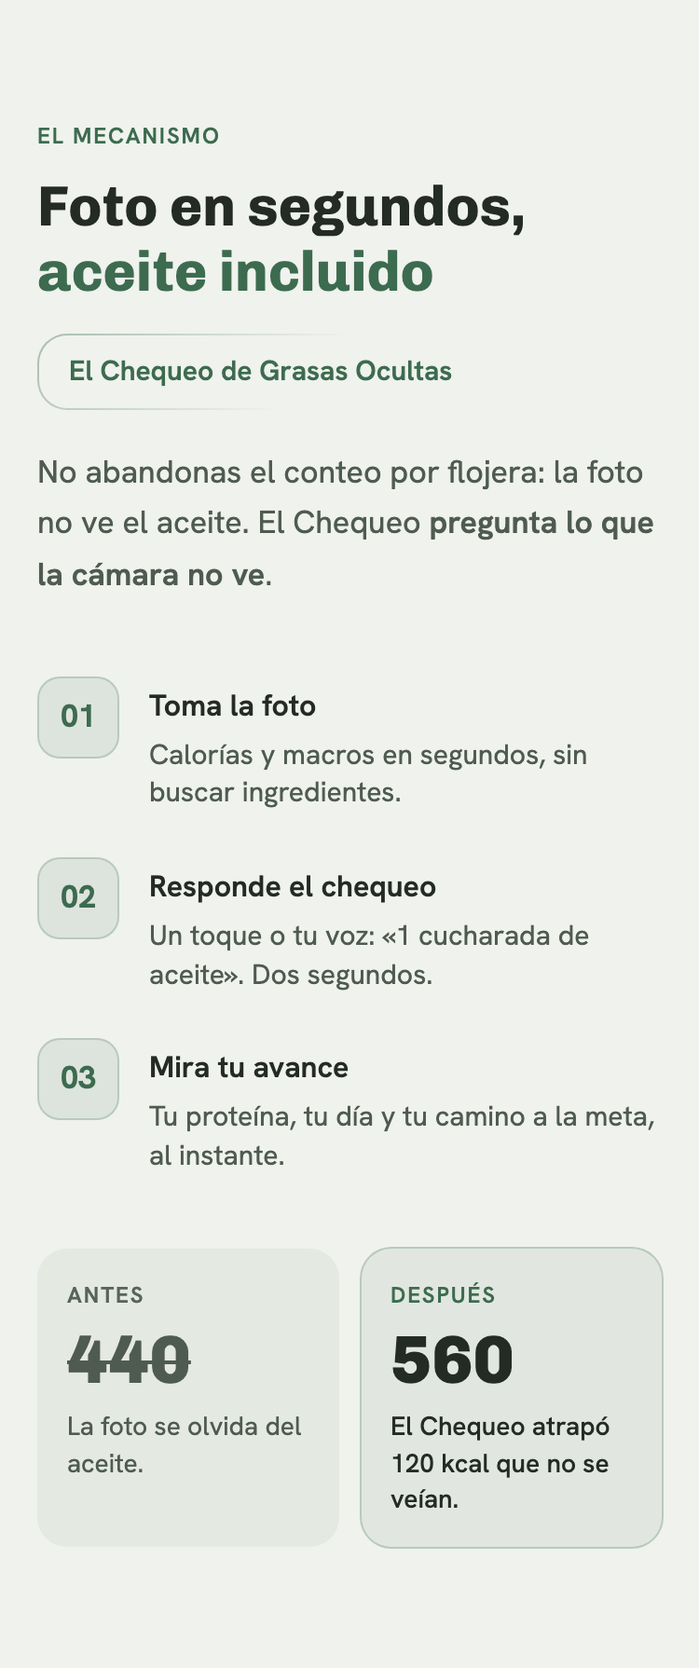
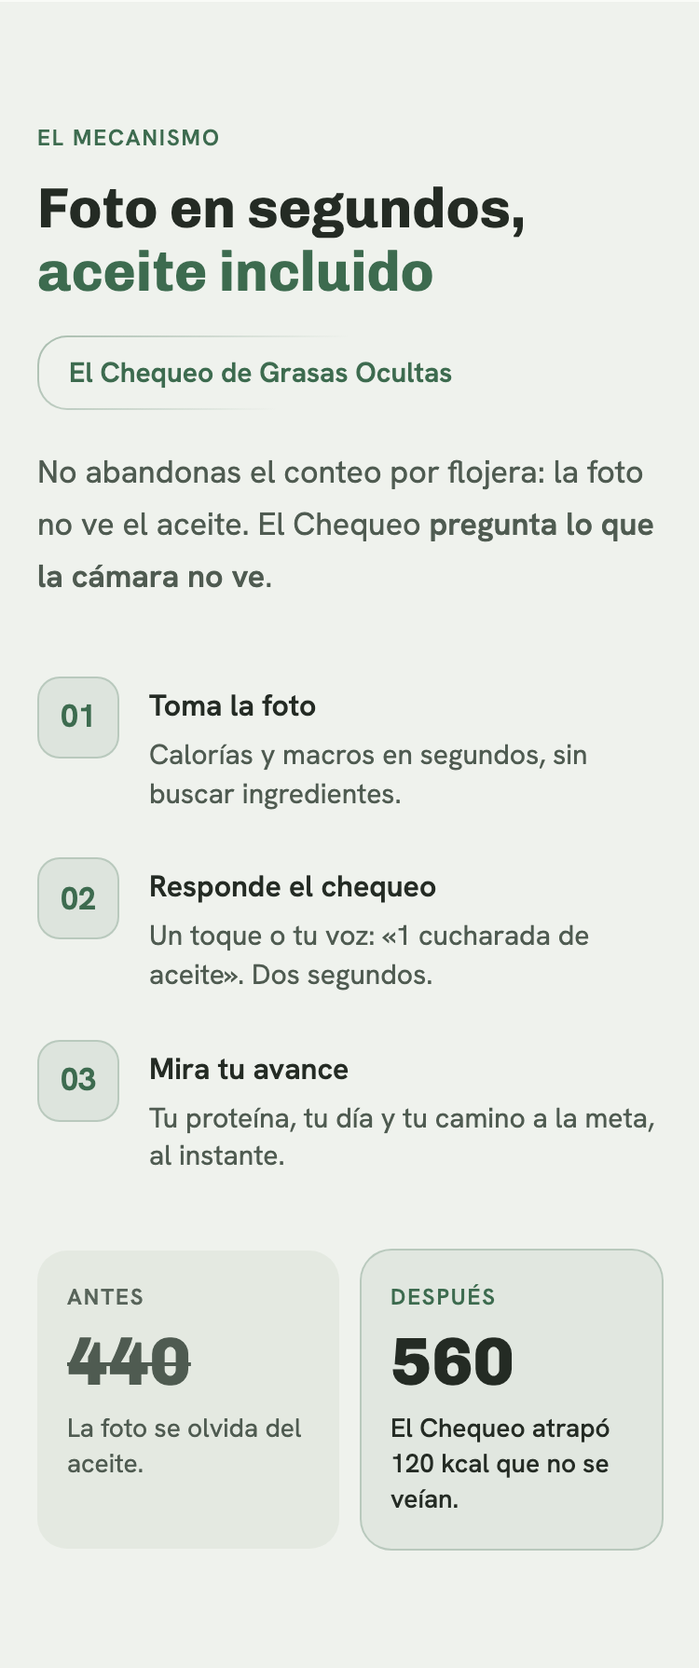
fix: pulido tras 3ª revisión (confianza, costo con contador, footer, garantía en ambos planes, sticky sin duplicados)

diff --git a/components/landing/AgitacionCifras.tsx b/components/landing/AgitacionCifras.tsx
@@ -4,19 +4,26 @@
 // inacción va como CIFRAS en tarjetas con ícono, no como prosa. Mismos tokens y misma
 // mecánica de reveal que el kit. Cálculo trazable: 1 cda de aceite ≈ 120 kcal;
 // 120 × 30 = 3.600 kcal ≈ 0,47 kg de grasa (7.700 kcal/kg).
-import { motion } from 'motion/react';
+import { useEffect, useRef, useState } from 'react';
+import { animate, motion, useInView, useReducedMotion } from 'motion/react';
 import { CalendarDays, Droplet, Scale, type LucideIcon } from 'lucide-react';
-import { IconChip, SectionShell, useReveal, VIEWPORT_ONCE } from './ui';
+import { IconChip, Kicker, SectionShell, useReveal, VIEWPORT_ONCE } from './ui';
 import { MarkedCopy } from './MarkedCopy';
 
 export interface CifraAgitacion {
   icon: LucideIcon;
-  dato: string;
+  /** Valor numérico: cuenta desde 0 al entrar en pantalla. */
+  valor: number;
+  decimales?: number;
+  prefijo?: string;
   unidad?: string;
   etiquetaMarked: string;
 }
 
 export interface AgitacionCifrasProps {
+  kicker?: string;
+  /** Título MARCADO de la sección (solo-titulares). */
+  tituloMarked: string;
   /** 3 cifras: el costo de seguir igual. */
   cifras: CifraAgitacion[];
   /** Frase de cierre corta. */
@@ -27,11 +34,36 @@ export interface AgitacionCifrasProps {
 
 export const ICONOS_AGITACION = { Droplet, CalendarDays, Scale };
 
-export function AgitacionCifras({ cifras, cierreMarked, contraste, id }: AgitacionCifrasProps) {
+function Contador({ valor, decimales = 0, prefijo = '' }: { valor: number; decimales?: number; prefijo?: string }) {
+  const ref = useRef<HTMLSpanElement | null>(null);
+  const visto = useInView(ref, { once: true, amount: 0.6 });
+  const reduce = useReducedMotion();
+  const [v, setV] = useState(reduce ? valor : 0);
+  useEffect(() => {
+    if (reduce) { setV(valor); return; }
+    if (!visto) return;
+    const c = animate(0, valor, { duration: 0.9, ease: [0.16, 1, 0.3, 1], onUpdate: setV });
+    return () => c.stop();
+  }, [visto, valor, reduce]);
+  return (
+    <span ref={ref}>
+      {prefijo}
+      {new Intl.NumberFormat('es-CO', { minimumFractionDigits: decimales, maximumFractionDigits: decimales }).format(v)}
+    </span>
+  );
+}
+
+export function AgitacionCifras({ kicker = 'EL COSTO DE SEGUIR IGUAL', tituloMarked, cifras, cierreMarked, contraste, id }: AgitacionCifrasProps) {
   const { contenedor, item } = useReveal();
   return (
     <SectionShell id={id} elevacion="elevada" flush="top" ariaLabel="El costo de seguir igual">
       <motion.div variants={contenedor} initial="hidden" whileInView="visible" viewport={VIEWPORT_ONCE} className="mx-auto max-w-[620px]">
+        <motion.div variants={item} className="mb-6">
+          <Kicker>{kicker}</Kicker>
+          <h2 className="text-balance text-[30px] font-bold leading-[1.15] text-[var(--text-primary)] [font-family:var(--font-display)] md:text-[40px]">
+            <MarkedCopy text={tituloMarked} />
+          </h2>
+        </motion.div>
         <ul className="flex flex-col gap-3">
           {cifras.map((c, i) => (
             <motion.li
@@ -42,7 +74,7 @@ export function AgitacionCifras({ cifras, cierreMarked, contraste, id }: Agitaci
               <IconChip icon={c.icon} tone="accent" />
               <div>
                 <p className="text-[32px] font-extrabold leading-none tabular-nums text-[var(--text-primary)] [font-family:var(--font-display)]">
-                  {c.dato}
+                  <Contador valor={c.valor} decimales={c.decimales} prefijo={c.prefijo} />
                   {c.unidad && <span className="ml-1 text-[15px] font-semibold text-[var(--text-secondary)]">{c.unidad}</span>}
                 </p>
                 <p className="mt-1 text-[15px] leading-snug text-[var(--text-secondary)]">
@@ -58,12 +90,12 @@ export function AgitacionCifras({ cifras, cierreMarked, contraste, id }: Agitaci
         </motion.p>
 
         <motion.div variants={item} className="mt-6 grid grid-cols-1 gap-3 sm:grid-cols-2">
-          <div className="rounded-[var(--radius-card)] bg-[var(--bg)] p-5">
-            <p className="text-[12px] font-semibold uppercase tracking-[0.08em] text-[var(--text-tertiary)]">{contraste.labelHoy}</p>
+          <div className="rounded-[var(--radius-card)] border-l-4 border-[var(--accent)] bg-[var(--bg)] p-5">
+            <p className="text-[12px] font-semibold uppercase tracking-[0.08em] text-[var(--accent)]">{contraste.labelHoy}</p>
             <p className="mt-2 text-[15px] leading-snug text-[var(--text-primary)]">{contraste.hoy}</p>
           </div>
-          <div className="rounded-[var(--radius-card)] bg-[var(--surface-2)] p-5">
-            <p className="text-[12px] font-semibold uppercase tracking-[0.08em] text-[var(--text-tertiary)]">{contraste.labelFuturo}</p>
+          <div className="rounded-[var(--radius-card)] border-l-4 border-[var(--accent-2)] bg-[var(--surface-2)] p-5">
+            <p className="text-[12px] font-semibold uppercase tracking-[0.08em] text-[var(--accent-2)]">{contraste.labelFuturo}</p>
             <p className="mt-2 text-[15px] leading-snug text-[var(--text-secondary)]">{contraste.futuro}</p>
           </div>
         </motion.div>

diff --git a/app/page.tsx b/app/page.tsx
@@ -4,7 +4,7 @@ import { CreditCard, PenLine, ScanEye, Scale, Timer } from 'lucide-react';
 import { Hero } from '@/components/landing/Hero';
 import { Problema } from '@/components/landing/Problema';
 import { AgitacionCifras } from '@/components/landing/AgitacionCifras';
-import { Droplet, CalendarDays } from 'lucide-react';
+import { Droplet, CalendarDays, ShieldCheck } from 'lucide-react';
 import { CtaFila } from '@/components/landing/CtaFila';
 import { Isotipo } from '@/components/landing/Isotipo';
 import { Solucion } from '@/components/landing/Solucion';
@@ -33,17 +33,20 @@ export default function Page() {
         ctaLabel={CTA_LABEL}
         ctaHref={CTA_HREF}
         socialProof={
-          <span className="mx-auto grid max-w-[340px] grid-cols-3 divide-x divide-[color-mix(in_oklab,var(--text-secondary)_30%,transparent)] text-center text-[12px] leading-tight">
-            <span className="px-2">Garantía de Cero Sorpresas</span>
-            <span className="px-2">Prueba de 3 días</span>
-            <span className="px-2">Reembolso de 7 días</span>
-          </span>
+          <ul className="mx-auto flex w-fit flex-col gap-1 text-left text-[14px]">
+            {['Garantía de Cero Sorpresas', 'Prueba de 3 días, aviso antes de cobrar', 'Reembolso de 7 días, sin preguntas'].map((t) => (
+              <li key={t} className="flex items-center gap-2">
+                <ShieldCheck size={16} strokeWidth={2.2} aria-hidden="true" className="shrink-0 text-[var(--accent)]" />
+                <span>{t}</span>
+              </li>
+            ))}
+          </ul>
         }
         visual={<ChequeoDemo />}
       />
 
       <Problema
-        titulo="¿Te suena?"
+        titulo="Registrar tu comida no debería ser tan lento"
         preguntas={[
           { icon: Timer, textoMarked: '¿Tardas más registrando el plato que [b]comiéndotelo[/b]?' },
           { icon: ScanEye, textoMarked: '¿Tu app dice 440 kcal y [b]no vio el aceite[/b]?' },
@@ -54,10 +57,11 @@ export default function Page() {
       />
 
       <AgitacionCifras
+        tituloMarked="Lo que tu foto [acento]no cuenta[/acento]"
         cifras={[
-          { icon: Droplet, dato: '120', unidad: 'kcal', etiquetaMarked: 'en [b]una cucharada de aceite[/b] que la cámara no ve' },
-          { icon: CalendarDays, dato: '3.600', unidad: 'kcal', etiquetaMarked: 'al mes, si sumas [b]una al día[/b]' },
-          { icon: Scale, dato: '≈ 0,5', unidad: 'kg', etiquetaMarked: 'de grasa que [b]tu déficit no cuenta[/b]' },
+          { icon: Droplet, valor: 120, unidad: 'kcal', etiquetaMarked: 'en [b]una cucharada de aceite[/b] que la cámara no ve' },
+          { icon: CalendarDays, valor: 3600, unidad: 'kcal', etiquetaMarked: 'al mes, si sumas [b]una al día[/b]' },
+          { icon: Scale, valor: 0.5, decimales: 1, prefijo: '≈ ', unidad: 'kg', etiquetaMarked: 'de grasa que [b]tu déficit no cuenta[/b]' },
         ]}
         cierreMarked="Meses de gimnasio con [b]números incompletos[/b]."
         contraste={{
@@ -116,6 +120,7 @@ export default function Page() {
           descomposicionDia: 'menos de US$0.14 al día',
           ctaLabel: CTA_LABEL,
           ctaHref: '/onboarding?plan=anual',
+          notaCta: 'Aviso 1 día antes de cobrar · Reembolso de 7 días',
           features: [
             'Fotos con Chequeo de Grasas Ocultas (hasta 8 al día)',
             'Corrección por voz en 2 segundos',
@@ -128,18 +133,19 @@ export default function Page() {
           precioMes: 'US$7.99',
           ctaLabel: 'Probar con el plan mensual',
           ctaHref: '/onboarding?plan=mensual',
+          notaCta: 'Aviso 1 día antes de cobrar · Reembolso de 7 días',
           features: [
             'Todo lo del plan anual, mes a mes',
             'Cancelas cuando quieras, en 2 toques',
             'El escáner de códigos sigue gratis siempre',
-            'Garantía de Cero Sorpresas: reembolso de 7 días',
+            'Fotos con Chequeo de Grasas Ocultas (hasta 8 al día)',
           ],
         }}
       />
 
       <Garantia
         nombre="La Garantía de Cero Sorpresas"
-        condicionMarked="Te avisamos 1 día antes de cobrar. Si igual no te sirve, un correo y [b]te devolvemos todo[/b]: tienes 7 días de reembolso. Sin preguntas."
+        condicionMarked="Te avisamos 1 día antes de cobrar. Si no te sirve, un correo y [b]te devolvemos todo[/b]. 7 días, sin preguntas."
         pisoLegal="El reembolso se tramita a través de Hotmart"
       />
 

diff --git a/components/landing/ui.tsx b/components/landing/ui.tsx
@@ -194,6 +194,7 @@ export function StickyCtaMobile({
   const [ofertaVisible, setOfertaVisible] = useState(false);
   const [ofertaVista, setOfertaVista] = useState(false);
   const [finalVisible, setFinalVisible] = useState(false);
+  const [inlineVisibles, setInlineVisibles] = useState(0);
 
   useEffect(() => {
     const observar = (id: string, onChange: (visible: boolean) => void): IntersectionObserver | null => {
@@ -215,14 +216,25 @@ export function StickyCtaMobile({
       if (v) setOfertaVista(true);
     });
     const c = observar(ctaFinalId, setFinalVisible);
+    // CTAs inline (data-cta-inline): mientras uno está en pantalla, el sticky se oculta (sin botones duplicados)
+    const vis = new Set<Element>();
+    const ioInline = new IntersectionObserver(
+      (entries) => {
+        for (const e of entries) (e.isIntersecting ? vis.add(e.target) : vis.delete(e.target));
+        setInlineVisibles(vis.size);
+      },
+      { threshold: 0.3 }
+    );
+    document.querySelectorAll('[data-cta-inline]').forEach((el) => ioInline.observe(el));
     return () => {
       a?.disconnect();
       b?.disconnect();
       c?.disconnect();
+      ioInline.disconnect();
     };
   }, [heroId, ofertaId, ctaFinalId]);
 
-  const visible = !heroVisible && !ofertaVisible && !finalVisible;
+  const visible = !heroVisible && !ofertaVisible && !finalVisible && inlineVisibles === 0;
 
   return (
     <AnimatePresence>

diff --git a/components/landing/Oferta.tsx b/components/landing/Oferta.tsx
@@ -22,6 +22,8 @@ export interface PlanOferta {
   descomposicionDia?: string;
   ctaLabel: string;
   ctaHref: string;
+  /** Línea bajo el CTA (p. ej. garantía y aviso de cobro). */
+  notaCta?: string;
   /** 4-6 features en lenguaje de RESULTADO, máx 12 palabras c/u. */
   features: string[];
 }
@@ -174,6 +176,7 @@ export function Oferta({
                   <CtaButton href={anual.ctaHref} fullMobile>
                     {anual.ctaLabel}
                   </CtaButton>
+                  {anual.notaCta && <p className="mt-3 text-center text-[13px] text-[var(--text-secondary)]">{anual.notaCta}</p>}
                 </div>
               </div>
             </Hairline>
@@ -199,6 +202,7 @@ export function Oferta({
             >
               {mensual.ctaLabel}
             </motion.a>
+            {mensual.notaCta && <p className="mt-3 text-center text-[13px] text-[var(--text-secondary)]">{mensual.notaCta}</p>}
           </motion.div>
         </div>
       </motion.div>

diff --git a/components/landing/FooterLegal.tsx b/components/landing/FooterLegal.tsx
@@ -37,14 +37,14 @@ export function FooterLegal({ appName, logo, enlaces, soporteEmail, anio }: Foot
             {appName}
           </p>
           <nav aria-label="Enlaces legales">
-            <ul className="flex flex-wrap items-center gap-x-3 gap-y-0">
+            <ul className="flex flex-wrap items-center gap-x-5 gap-y-0">
               {enlaces.map((e, i) => (
                 <li key={e.href} className="flex items-center">
 
                   {/* py-3 = área táctil ≥44px sin líneas pegadas */}
                   <a
                     href={e.href}
-                    className="whitespace-nowrap px-1 py-3 text-[13px] text-[var(--text-tertiary)] underline-offset-4 hover:text-[var(--text-secondary)] hover:underline"
+                    className="whitespace-nowrap py-3 text-[13px] text-[var(--text-tertiary)] underline-offset-4 hover:text-[var(--text-secondary)] hover:underline"
                   >
                     {e.label}
                   </a>

diff --git a/components/landing/AppPorDentro.tsx b/components/landing/AppPorDentro.tsx
@@ -140,7 +140,7 @@ export function AppPorDentro({
                 onClick={() => irA(i)}
                 aria-label={`Ir a: ${f.label}`}
                 aria-current={activo === i ? 'true' : undefined}
-                className="flex size-6 items-center justify-center [touch-action:manipulation]"
+                className="flex size-11 items-center justify-center [touch-action:manipulation]"
               >
                 <span
                   className={`size-2 rounded-full transition-colors duration-200 ${
@@ -155,7 +155,7 @@ export function AppPorDentro({
         </motion.div>
 
         {/* CTA mid-page (reglas de CTA de 19): tras la prueba visual, cuando la confianza es alta */}
-        <motion.div variants={item} className="mt-10 flex justify-center">
+        <motion.div variants={item} data-cta-inline className="mt-10 flex justify-center">
           <CtaButton href={ctaHref}>{ctaLabel}</CtaButton>
         </motion.div>
       </motion.div>

diff --git a/components/landing/CtaFila.tsx b/components/landing/CtaFila.tsx
@@ -6,7 +6,7 @@ import { CtaButton } from './ui';
 
 export function CtaFila({ label, href, nota }: { label: string; href: string; nota?: string }) {
   return (
-    <div className="bg-[var(--bg)] px-5 py-8">
+    <div data-cta-inline className="bg-[var(--bg)] px-5 py-8">
       <div className="mx-auto flex max-w-[420px] flex-col items-center gap-2 text-center">
         <CtaButton href={href}>{label}</CtaButton>
         {nota && <p className="text-[13px] text-[var(--text-secondary)]">{nota}</p>}

diff --git a/docs/revisiones/landing-veredicto.md b/docs/revisiones/landing-veredicto.md
@@ -1,24 +1,44 @@
-# VEREDICTO revisor-visual — landing (segunda revisión)
-Fecha: 2026-11-04 12:00
+# VEREDICTO revisor-visual — landing (tercera revisión)
+Fecha: 2026-11-07 12:00
 Screenshot: docs/revisiones/landing-375.png
-Usabilidad: 28/40
-Craft: 13/20
-Copy (si vende): 15/20
+Usabilidad: 30/40
+Craft: 14/20
+Copy (si vende): 16/20
 Fidelidad (si hubo referencia): N-A
 Veredicto: NO LISTA
 Top defectos:
-1. [Oferta, card Anual, botón] "Probar mi primera foto gratis" se parte en 2 líneas con el texto pegado a la izquierda dentro de un botón de ancho completo (px-8 + card con padding): es el CTA héroe de la página y se ve roto; el mismo CTA en hero/carrusel/final va en 1 línea centrada. Fix: reducir px del CtaButton dentro de cards (px-4) / text-center / text-[16px] para que quepa en 1 línea.
-2. [Honestidad, Oferta + Garantía + FAQ + CTA final] La app no existe, pero solo el kicker del carrusel lo dice; la oferta, la prueba de 3 días, los features ("hasta 8 al día", "reporte semanal", "racha de 48 h") y la FAQ hablan en presente como producto vivo y el CTA lleva a /onboarding. Fix: si se vende ya, aviso visible junto a la oferta ("acceso anticipado / lanzamiento en X") o cambiar el CTA a lista de espera; si no, no cobrar por lo que no está.
-3. [Hero, fila de confianza bajo el CTA; Footer; CtaFinal recap] Desencajes visibles de última milla: la fila "Garantía de Cero Sorpresas / Prueba de 3 días / Reembolso de 7 días" cae en 2 líneas desbalanceadas sin separadores; en el pie el "·" queda colgado al final de la línea 1 y "Aviso de IA" cae sangrado a la línea 2; el recap del CTA final deja "días" huérfano. Fix: grid 3 columnas o chips con separador en el hero; en el pie, lista con flex-wrap sin "·" textuales (usar gap + divisores por ::before); recap en 2 líneas controladas (text-balance).
-4. [Agitación + Solución "Antes/Después" + hero + carrusel frame 1] El par 440→560 aparece 4 veces (hero demo, Antes/Después, frame 1 del carrusel, CTA final) y Agitación es texto puro en 3 párrafos + 2 cajas grises sin ícono, número héroe ni visual (regla "ninguna sección de conversión es solo texto"); además las 5 tarjetas de "¿Te suena?" parecen tocables y no hacen nada. Fix: eliminar el bloque Antes/Después (ya lo hace el demo del hero) y convertir Agitación en un dato héroe visual (120 kcal × 30 = 3.600 con barra/rejilla); quitar la apariencia de botón a las tarjetas de Problema (sin sombra/borde elevado).
-5. [Oferta, 2 cards] 12 bullets (2 listas idénticas de 6, una de ellas repite la garantía que ya tiene su sección) en la zona donde el usuario decide: carga cognitiva alta y el Mensual queda tan largo como el Anual. Fix: lista de 4 ítems en el Anual y en el Mensual solo "Todo lo del Anual, mes a mes"; quitar el bullet de garantía (va en su sección y en el hero).
-Otros (menores): logo = cuadrado verde liso sin glifo en header y pie (identidad blanda, parece placeholder); el frame del carrusel deja ~25% de vacío muerto dentro del teléfono antes del botón; carrusel muestra "Foto en 3 s" (claim de velocidad no probado); sin ninguna prueba social externa (testimonio/cifra real) -> especificidad solo apoyada en el demo ilustrativo y la garantía; el verde claro del CTA final (#9FD1AE aprox.) es un color fuera de la paleta de FICHA-ARTE (aceptable por contraste, documentarlo en la ficha).
+1. [Hero, fila de confianza bajo el CTA] Sigue cayendo en 2 líneas desbalanceadas: "Garantía de Cero / Sorpresas", "Reembolso de 7 / días" (huérfano "días"). Se ve a simple vista en el primer pantallazo, justo bajo el CTA héroe. Fix: textos cortos de 1 línea ("Cero Sorpresas · 3 días gratis · 7 días de reembolso") o chips con ícono; text-balance y whitespace-nowrap por columna.
+2. [Sección "costo de seguir igual", justo tras "¿Te suena?"] Las 3 tarjetas de cifras (120 / 3.600 / ≈0,5) y el bloque Hoy/En 6 meses NO tienen título ni kicker: el lector pasa de 5 tarjetas grises de preguntas a 5 tarjetas grises más sin ningún encabezado que enmarque "el costo". Falla la prueba solo-titulares y se crea un muro de 10 cajas gris-verdoso casi idénticas sin respiro. Fix: agregar kicker + h2 ("Lo que no cuenta, cuenta") y dar al par Hoy/6 meses un tratamiento distinto (sin caja o con acento naranja de la ficha); además hacer que 120 y 3.600 cuenten de 0 al entrar (conteo héroe).
+3. [Footer] "Aviso de IA" cae solo en una 2ª línea, sangrado 8px respecto al logo y al © (los enlaces llevan padding, el resto no); sin ningún canal de contacto/soporte. Fix: lista flex-wrap 2x2 con -ml-2 o sin padding lateral, alineada a x=40; añadir correo de soporte.
+4. [Oferta, cards Anual/Mensual] La garantía de 7 días aparece como bullet solo en el Mensual: el Anual (el que se promueve y el de mayor desembolso, US$49.99) parece NO tenerla, contradiciendo hero/FAQ/Garantía. Fix: quitar el bullet del Mensual y poner bajo el CTA del Anual una línea "Reembolso de 7 días · aviso 1 día antes de cobrar" en ambos planes.
+5. [Cierre y consistencia con FICHA-ARTE] CTA final con verde menta (~#9FD1AE) y fondo oscuro: ambos fuera del brand kit aprobado (modo claro, acento #3D6B4F); no están documentados en la ficha. Además el sticky CTA coexiste con los CtaFila/carrusel (dos botones idénticos apilados en pantalla en secciones 5, 6 y 9). Fix: documentar el verde menta y el bloque oscuro en FICHA-ARTE como excepción de cierre (o tokenizarlo), y ocultar el sticky mientras haya un CtaFila/CTA inline visible.
+Otros (menores): 440→560 aparece 5 veces (hero demo, pregunta 2 de "¿Te suena?", Antes/Después, frame 1 del carrusel, cierre) y dilata la especificidad; dots del carrusel con área de 24px (<44px) y marco del frame 1 con ~12% de vacío antes del botón; el aviso de 2 líneas en mayúsculas del carrusel es largo; las FAQ afirman funciones ("fotos no se guardan, solo miniatura", "hasta 8 al día", "48 h para recuperar racha") de una app que aún no existe, atenuado por el aviso de Acceso anticipado; sin prueba social real (omitida a propósito, el techo de especificidad queda en 3); labels de 11-12px en el demo (Solo la foto / Con el Chequeo) en el límite; rejilla+ticks aparece una sola vez en toda la página.
 
 Detalle de puntaje
-Usabilidad: h1:3 h2:3 h3:3 h4:2 h5:3 h6:3 h7:3 h8:2 h9:3 h10:3
-Craft: jerarquía:3 profundidad:3 identidad:2 movimiento:3 encaje:2
-Copy: idea:3 especificidad:3 emoción:3 oferta:3 acción:3
-Gate de carga cognitiva: 1 falla (listas de 6 ítems por card); 5 tarjetas en Problema en el límite. No es sobrecarga crítica.
-Verificado en código: reveal escalonado whileInView una sola vez con useReducedMotion (ui.tsx useReveal), whileTap 0.97 en CTAs, conteo animado 440->560 en ChequeoDemo (al montar y al tocar), @media prefers-reduced-motion en tokens.css, sticky CTA con 2 estados y safe-area, FAQ y dots del carrusel tocables, todas las rutas enlazadas existen (/onboarding, /entrar, /privacidad, /terminos, /reembolsos, /aviso-ia). No hay anillos/barras que se dibujen ni celebración en la landing (n/a salvo imágenes estáticas).
-Consistencia con FICHA-ARTE: paleta (#EFF2ED/#F9FBF7/#3D6B4F), Chivo + Hanken, radios 14-16 y dispositivo rejilla+ticks coinciden; sin desvío evidente. No coincide con los clones vetados (Capítulo/Umbral). Cumple conversión: titular con énfasis en acento, hairline degradé en card clave, chips SVG sin emojis, secciones alternadas.
-Umbral: LISTA exige >=36/40 y >=16/20 craft y copy >=16/20 sin eje <=2: no se cumple (28, 13, 15).
+Usabilidad: h1:3 h2:3 h3:3 h4:3 h5:3 h6:3 h7:3 h8:3 h9:3 h10:3
+(h9 = sin estados de error en una landing; se puntúa neutro, no 4. h3/h7 verificados en código: sticky CTA con 2 estados, FAQ cierra/abre con aria-expanded y teclado nativo, dots tocables, botones nativos; sin atajos ni ancla de navegación superior, por eso no 4.)
+Craft: jerarquía:3 profundidad:3 identidad:3 movimiento:3 encaje:2
+Copy: idea:4 especificidad:3 emoción:3 oferta:3 acción:3
+Gate de carga cognitiva: 0-1 fallas (5 tarjetas en "¿Te suena?" en el límite; 440/560 repetido). Sin sobrecarga crítica. Una acción primaria repetida con el mismo label; sin elementos tapables falsos (las tarjetas del problema ya no parecen botones).
+Verificado en código: reveal escalonado whileInView una sola vez + useReducedMotion (ui.tsx useReveal), whileTap 0.97 en CtaButton/sticky/Oferta, conteo 440→560 en ChequeoDemo (al montar y al tocar, con aria-live), acordeón con altura animada y reduced-motion, @media prefers-reduced-motion en tokens.css, rutas /onboarding /entrar /privacidad /terminos /reembolsos /aviso-ia existen. Faltan: conteo en las cifras 120/3.600, anillos/barras dibujados (solo imágenes estáticas en el carrusel); celebración N/A en landing.
+Consistencia con FICHA-ARTE: paleta #EFF2ED/#F9FBF7/#3D6B4F, Chivo + Hanken, radios 14-16, rejilla+ticks e isotipo coinciden. Desvíos: bloque oscuro de cierre y CTA verde menta no están en la ficha (modo claro). No coincide con los clones vetados (Capítulo = papel cálido + Petrona/Karla; Umbral = pizarra + latón): fondo salvia fría + Chivo/Hanken. Conversión: titular con énfasis en acento, hairline degradé en demo/oferta/garantía, chips SVG sin emojis, secciones alternadas, checkmarks custom: cumple.
+Copy: traza a ficha — hero (dolor 2 + deseo 2, objeción 1), cobros sorpresa (dolor 4, objeción 2) en Problema/Garantía/FAQ, mecanismo "Chequeo de Grasas Ocultas" bautizado en hero, solución, oferta y FAQ. Garantía con nombre y plazo (7 días) inmediatamente tras la oferta y repetida en CtaFila. Message-match: N/A (sin anuncio de origen). Cero claims de ingresos/salud; "≈0,5 kg" trazable (120×30/7.700). Techo en especificidad/emoción por falta de prueba real y de la escena del restaurante.
+Umbral: LISTA exige >=36/40 usabilidad, >=16/20 craft y >=16/20 copy sin eje <=2. Copy cumple (16); usabilidad 30 y craft 14 no.
+
+## Auditoría de escaneabilidad mobile (375px)
+| # | Sección | ¿Bloque >4 líneas seguidas? | ¿Ícono/número en dolores/beneficios/pasos? | ¿Pasa solo-titulares? | ¿Respiro visual? | Caja/acordeón | Qué corregir |
+|---|---|---|---|---|---|---|---|
+| 1 | Hero | ✅ máx 3 líneas (H1) | ✅ demo con ícono de gota | ✅ H1 + CTA cuentan la historia | ✅ | n/a | Fila de confianza en 2 líneas con "días" huérfano: acortar a 1 línea por columna |
+| 2 | ¿Te suena? | ✅ 2 líneas por tarjeta | ✅ 5 chips de ícono | ❌ título genérico ("¿Te suena?"); el mensaje está en el cuerpo de las tarjetas | ✅ gap 16px, 5 ítems (límite) | ✅ tarjetas sin apariencia de botón | Título con promesa ("5 señales de que tu conteo está incompleto") |
+| 3 | El costo de seguir igual | ✅ máx 2 líneas | ✅ ícono + cifra héroe 32px | ❌ no tiene título: sin encabezado el bloque no se lee en solo-titulares | ❌ continúa el muro de cajas grises de la sección 2 sin pausa | ✅ cajas | Añadir kicker+h2; diferenciar Hoy/6 meses del resto; contar las cifras al entrar |
+| 4 | Cómo funciona | ✅ intro 3 líneas, pasos 2 | ✅ pasos 01-02-03 | ✅ "Foto en segundos, aceite incluido" + 3 títulos de paso | ✅ | ✅ Antes/Después en 2 columnas (440/560 se leen bien) | Quitar repetición del 440→560 (ya está en el hero) o variar el ejemplo |
+| 5 | CTA tras el mecanismo | ✅ | n/a | ✅ | ✅ | n/a | Ocultar el sticky cuando este botón es visible (botón duplicado) |
+| 6 | La app por dentro | ✅ | ✅ cada frame con etiqueta; 5 dots | ✅ | ✅ | ✅ marcos de teléfono | Dots a 44px; recortar vacío de 12% en frame 1; acortar kicker de 2 líneas |
+| 7 | Planes y precios | ✅ bullets de 1-2 líneas | ✅ checkmarks custom | ✅ "Empieza gratis. Sigue por US$4.17 al mes" | ✅ | ✅ 2 cajas, anual destacada con badge | Garantía solo en el bullet del Mensual: ponerla en ambos |
+| 8 | Garantía | ✅ 4 líneas justas (centradas, en el límite) | ✅ escudo | ✅ "La Garantía de Cero Sorpresas" | ✅ | ✅ caja con hairline | Alinear a la izquierda o recortar a 3 líneas |
+| 9 | CTA tras la garantía | ✅ | n/a | ✅ | ✅ | n/a | Mismo punto que 5 (sticky duplicado) |
+| 10 | Preguntas frecuentes | ✅ respuestas de 4 líneas | ✅ chevrons | ✅ 6 preguntas se leen solas | ✅ | ✅ acordeón (1 abierto) | Abrir/cerrar OK; sin cambios |
+| 11 | Empieza hoy (cierre) | ✅ 3 líneas | n/a | ✅ | ✅ | n/a | Documentar el bloque oscuro y el verde menta en la ficha |
+| 12 | Footer | ✅ | ✅ isotipo | n/a | ❌ enlace huérfano "Aviso de IA" sangrado | n/a | Alinear a x=40 y balancear; añadir contacto |
+
+Resumen: 12 secciones, 9 completamente ✅; ❌ en 3 (título faltante + muro de cajas), 2 (título genérico en solo-titulares), 12 (footer) y la fila de confianza del hero.

diff --git a/ESTADO.md b/ESTADO.md
@@ -121,7 +121,7 @@ Registro de calorías y macros por FOTO con IA + corrección por VOZ + escáner 
 - Sesión 2: identidad visual y tour de la app. Sesión 3: página de ventas. Sesiones 4-8 según el plan maestro.
 
 ## Problemas conocidos ⚠
-- veredicto landing: el revisor visual independiente dio NO LISTA dos veces (1ª: usab 28/40 · craft 12/20 · copy 14/20; 2ª: 28/40 · 13/20 · 15/20; gates 36/16/16). Ya corregido: contraste del CTA final, total anual, garantía nombrada, claims, CTA único, demo tocable, FAQ, pie, bullets de oferta. PENDIENTE: dato visual en Agitación, quitar Antes/Después repetido, logo/isotipo real, aviso de 'acceso anticipado' en la oferta (la app aún no existe), prueba social real. Decisión del usuario pendiente (ver pregunta). La landing se vuelve a puntuar con screenshots reales al cerrar la app (19 §5).
+- veredicto landing: 3ª revisión independiente (2026-11-07) NO LISTA: usab 30/40 · craft 14/20 · copy 16/20 (gates 36/16/16; copy ya pasa). Evolución: 28/12/14 → 28/13/15 → 30/14/16. Tras la 3ª se corrigió: fila de confianza, título+contador en 'costo', footer, garantía bajo ambos CTAs, sticky sin duplicados, dots 44px, excepción del bloque oscuro documentada en FICHA-ARTE. PENDIENTE: 4ª revisión (opcional), correo de soporte (requiere dominio), prueba social real, screenshots reales de la app. Nota: el revisor puntúa casi todo en 3; llegar a 36/40 exige varios 4 ('raro' según su rúbrica). Decisión del usuario pendiente.
 - (resuelto 2026-11-04) plazos de garantía: el usuario eligió prueba 3 días + garantía 7 días; FICHA-MERCADO §4 completada (M>N).
 - FICHA-MODELO: existe como BORRADOR (modelo propuesto: Cal AI). Falta verificar ≥2 señales de revenue con fuente/fecha y extraer su plano (onboarding, paywall, ads) — se hace en Sesión 1 antes de la Sesión 3. Estado: pospuesto a investigación de Sesión 1.
 

diff --git a/FICHA-ARTE.md b/FICHA-ARTE.md
@@ -36,4 +36,6 @@
 - Modo CLARO derivado por: avatar urbano que registra de día/comida (luz natural), líderes del nicho claros (Cal AI, Fitia) y la preferencia del usuario por el visual de la A
 - Pendientes de calidad: fotos del mockup son de Wikimedia (la app usará propias/licenciadas); líderes sin capturas reales
 
+- EXCEPCIÓN DOCUMENTADA (2026-11-07): en la landing, el bloque de CTA final es una sección INVERTIDA (fondo #242B24) con acento claro #9AD0AE (token --accent-on-dark) para cumplir contraste AA; el acento #3D6B4F sobre ese fondo daba ~2.4:1. Solo aplica a esa sección.
+
 ## Idioma UI: español neutro (tuteo) · Cierre: 2026-11-03 · Aprobada por el usuario: SÍ
